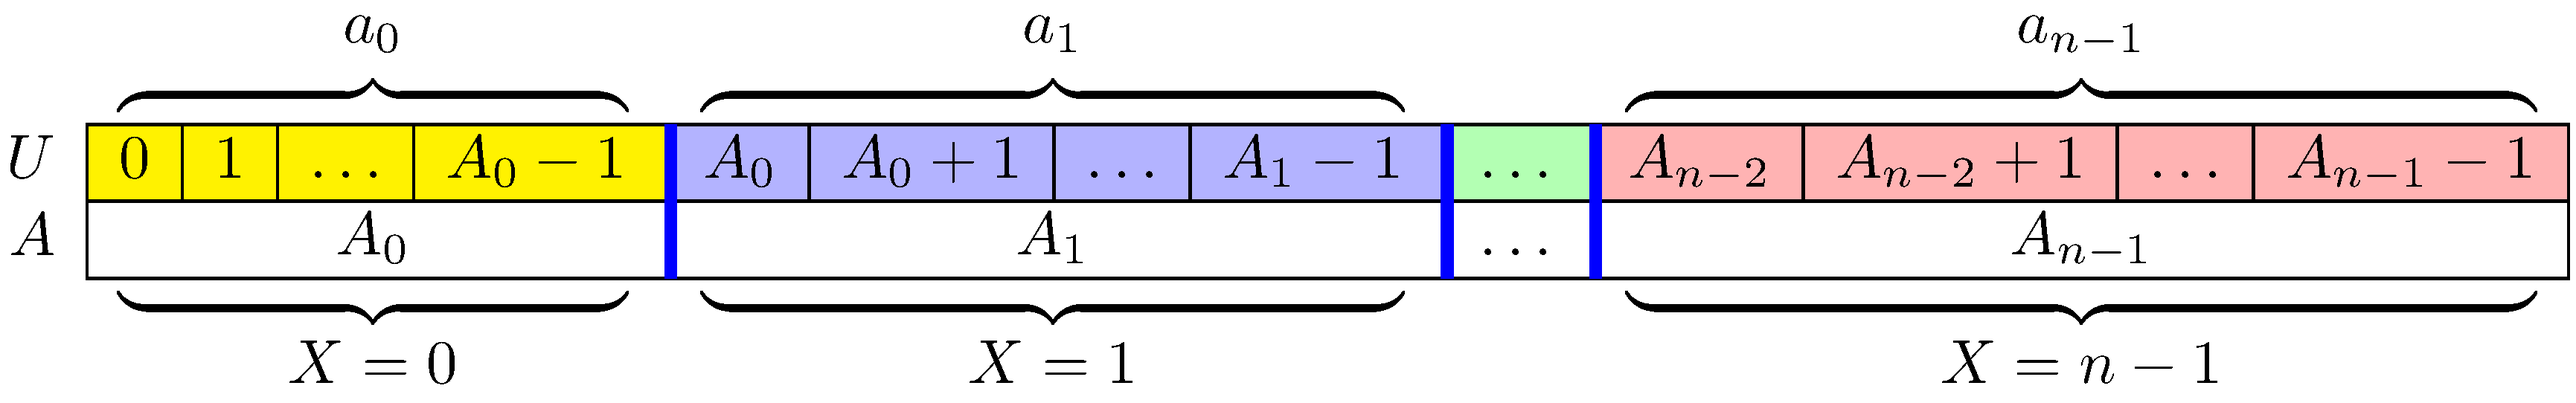
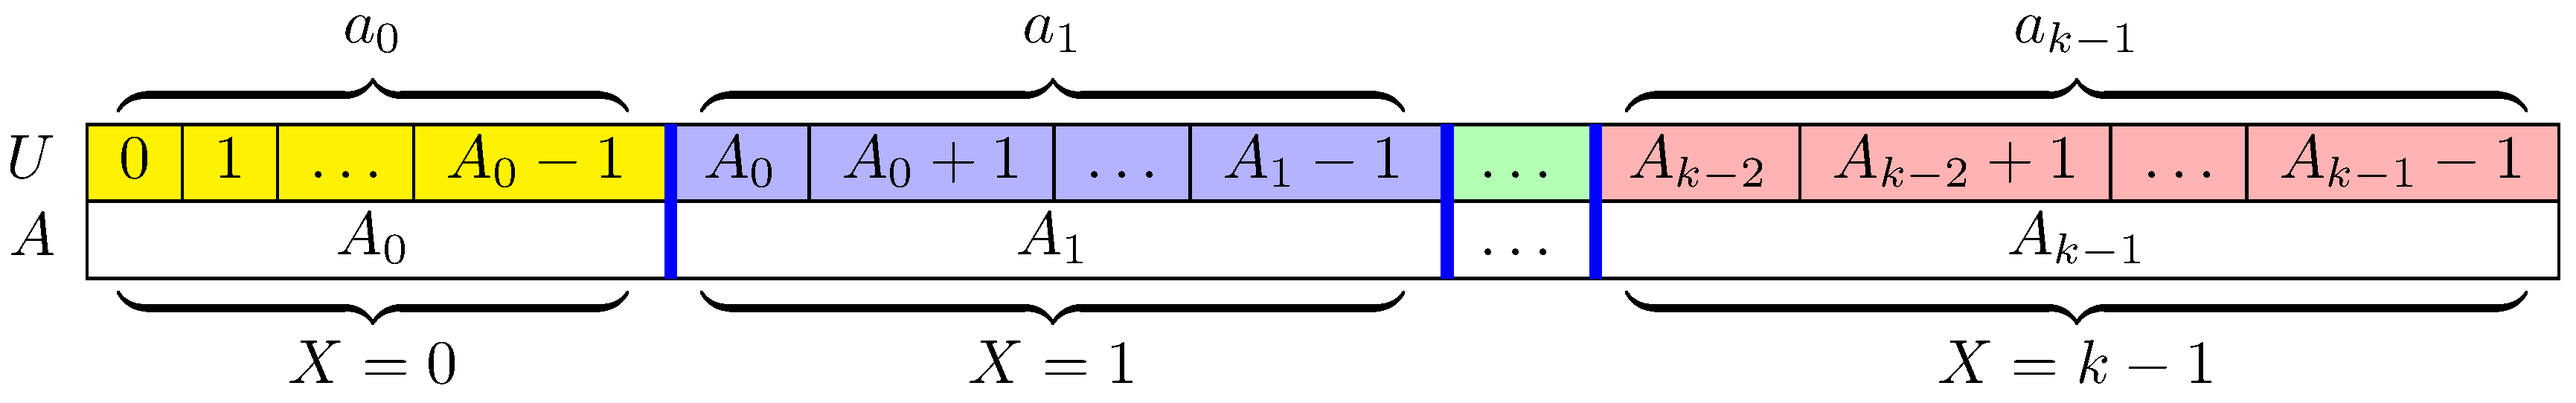
Update post

diff --git a/website/content/2025/online-random-sampling.md b/website/content/2025/online-random-sampling.md
@@ -24,7 +24,7 @@ committee = [
 Suppose you are given a discrete probability distribution \\(\mathbf{p} = (p_0, p_1, \ldots, p_{k-1})\\) and must generate a random integer \\(X \in \\{0,\ldots,k-1\\}\\) with probability \\(\mathbb{P}(X = i) = p_i\\).
 We can think of this problem as rolling a loaded \\(k\\)-sided die, where side \\(i\\) has probability \\(p_i\\), and we call this the random sampling problem.
 
-A prominent use case is in generating text using large language models, which provide a probability distribution over the next word in a text.
+A prominent use case of random sampling is in generating text using large language models, which provide a probability distribution over the next word in a text.
 A random sampler can be used in conjunction with a language model to generate text, word by word.
 More general applications of random sampling include stochastic simulation, statistical modeling, AI, machine learning, and cryptography.
 
@@ -39,12 +39,12 @@ Randomness is a scarce resource, so researchers study fundamental limits on the 
 The efficiency of sampling algorithms can be quantified in terms of the [Shannon entropy](https://en.wikipedia.org/wiki/Entropy_(information_theory)) of the inputs and outputs.
 For a probability distribution \\(\mathbf{p} = (p_0, p_1, \ldots, p_{k-1})\\), the Shannon entropy is defined as
 \\[H(\mathbf{p}) = \sum_{i=0}^{k-1} p_i \log\left(\frac{1}{p_i}\right),\\]
-which we can think of as the expected information content of a random variable drawn from the distribution \\(\mathbf{p}\\).[^2]
+which we can think of as the expected information content of a random variable drawn from the distribution \\(\mathbf{p}\\).[^log]
 Donald E. Knuth and Andrew C. Yao [proved in 1976](https://archive.org/details/algorithmscomple0000symp/page/356/mode/2up) derived the most efficient possible algorithm, which produces a sample from distribution \\(\mathbf{p}\\) using between \\(H(\mathbf{p})\\) and \\(H(\mathbf{p})+2\\) coin flips in expectation (with the exact value depending on the specific distribution \\(\mathbf{p}\\)).
 
 # Online random sampling {online-random-sampling}
 
-In real applications, a random number generation library is used to sample from a dynamic sequence of distributions \\(\\{\mathbf{p}\_1, \mathbf{p}\_2, \ldots\\}\\).[^1]
+In real applications, a random number generation library is used to sample from a dynamic sequence of distributions \\(\\{\mathbf{p}\_1, \mathbf{p}\_2, \ldots\\}\\).[^index]
 We call this the online random sampling problem, in contrast to the basic random sampling problem proposed earlier, where we generate a single sample from a given distribution.
 Basic random sampling algorithms can be expressed as computable functions \\((\mathbf{C}, \mathbf{p}) \mapsto X\\), where \\(\mathbf{C}\\) denotes the input sequence of coin flips, \\(\mathbf{p}\\) is the target distribution, and \\(X\\) is the output sample.
 If \\(\mathbf{C}\_0=\mathbf{C}\\) and \\(\mathbf{C}\_i\\) represents the unused coin flips after sampling from \\( \mathbf{p}\_{1}, \ldots, \mathbf{p}\_{i} \\), then we can apply the same basic random sampling function to the online problem setting by simply mapping each \\( (\mathbf{C}\_{i-1}, \mathbf{p}\_i) \mapsto X\_i \\).
@@ -55,7 +55,7 @@ The entropy-efficient algorithm of Knuth and Yao can be extended to sample in an
 However, this extension uses the entire program history, including the coin flips consumed and the distributions sampled, and therefore requires linearly growing memory and increasing computation time per sample as it progresses through the sequence, which makes it impractical for sampling long sequences.
 An alternative is to use the stateless version of Knuth and Yao's algorithm, using a fresh start for each new sample; the main drawback of this approach is that its entropy consumption is worse, bounded only by \\(H(\mathbf{p}_1)+\cdots+H(\mathbf{p}_n)+2n\\).
 
-## Entropy-space tradeoffs {entropy-space-tradeoffs}
+## Entropy/space tradeoffs {entropy-space-tradeoffs}
 
 Although both \\(H(\mathbf{p}_1)+\cdots+H(\mathbf{p}_n)+2\\) and \\(H(\mathbf{p}_1)+\cdots+H(\mathbf{p}_n)+2n\\) are asymptotically \\(\Theta(n)\\), the difference can be significant in practice when the source of randomness is expensive.
 Furthermore, in information-theoretic problems from source coding to channel capacity, the common goal is to drive the input-to-output entropy ratio to 1, not merely \\(O(1)\\).
@@ -74,11 +74,24 @@ For the special case of discrete uniform sampling (i.e., \\(\mathbf{p}\_0 = \cdo
 This efficient uniform sampling algorithm maintains a state describing a discrete uniform random variable, which is carried over between rounds, and never reset to zero.
 We show how discrete uniform state variables can also be used to recycle unused randomness from nonuniform samplers.
 
+## Randomness recycling {randomness-recycling}
+
+In this post, we will mainly focus on the inversion method for nonuniform sampling, which has the general structure of first converting coin flips to a discrete uniform random variable over a certain range, and then transforming the uniform into a sample from the target distribution, as shown in the following diagram.
+
+![stateless inversion diagram](standalone-diagram.png)
+
+Our proposed algorithms build on this same underlying structure, using deterministic transformations of uniform random variables, but we add randomness recycling rules to carry over unused randomness from round to round.
+We take as convention that our recycled random states are all discrete uniform random variables, represented as pairs of integers \\(Z,M\\) such that \\(Z \sim \operatorname{Uniform}(\\{0,1,\ldots,M-1\\})\\).
+These discrete uniform states are convenient to work with, because merging and splitting operations are as simple as integer multiplication and division.
+The following diagram illustrates the information flow in one round of our online sampling algorithm, where we have essentially added a recycling loop to the classical inversion method.
+
+![randomness recycling inversion diagram](standalone-diagram-rr.png)
+
 # Stateless sampling algorithms {stateless-sampling-algorithms}
 
 Our proposed online sampling algorithms build on classical algorithms for generating a single sample from a given distribution, which we now review.
 Knuth and Yao's algorithm is based on DDG trees (discrete distribution generating trees), which represent sampling algorithms as binary trees, where at each internal node, the sampler flips a fair coin to decide which child node to visit next, and each leaf node corresponds to an outcome in the target distribution.
-However, a general implementation of their method requires either exponential space to explicitly construct the DDG tree, or linear sampling time to implicitly traverse the tree.
+However, a general implementation of their method requires either exponential space to explicitly construct the DDG tree, or linear sampling runtime to implicitly traverse the tree.
 Keith Schwarz wrote [a popular blog post](https://www.keithschwarz.com/darts-dice-coins/) investigating several sampling algorithms, but without regard to entropy efficiency, and under the assumption that exact operations on real numbers can be performed in constant time.
 We have derived randomness recycling rules for many of these algorithms, but we will focus on the binary-search inversion method ("Roulette Wheel Selection" in Schwarz's blog post).
 
@@ -242,16 +255,17 @@ The solution grows as \\(M_{\min} = m_{\max} \cdot \tilde{O}(1 / \varepsilon)\\)
 The logarithmic dependence on \\(1/\varepsilon\\) makes it practical to run `Uniform_Recycling` with very small entropy loss.
 For the example where all inputs are 32-bit integers (i.e., \\(m_{\max} < 2^{32}\\)), and the state variables are 64-bit integers (i.e., \\(M_{\min} = 2^{63}\\)), the expected entropy loss is less than \\(2 \times 10^{-8}\\) bits per sample.
 For nonuniform sampling, `Inversion_Recycling` has the same entropy loss as `Uniform_Recycling`, and the underlying inversion method remains linear in the input size.
-The following table compares the efficiency of our method with the Knuth and Yao method, either statelessly (using a fresh start for each new sample), or online, as described in the [online random sampling](#online-random-sampling) section.
+The following table compares the entropy/space efficiency of our method with the Knuth and Yao method, either statelessly (using a fresh start for each new sample), fully online, or batched (online, but resetting the state every \\(\lceil 2/\varepsilon \rceil\\) iterations) as described in the [online random sampling](#online-random-sampling) section.
 
-| Method                    | Amortized Entropy Loss Bound | Expected Space and Time Complexity            |
-|:------------------------- | ---------------------------- | --------------------------------------------- |
-| Knuth and Yao (Stateless) | 2                            | linearithmic in input                         |
-| Knuth and Yao (Online)    | 0                            | unbounded                                     |
-| `Inversion_Recycling`     | \\( \varepsilon \\)          | linear in input and \\(\log(1/\varepsilon)\\) |
+| Method                    | Amortized Entropy Loss Bound | State Space Complexity       |
+|:------------------------- | ---------------------------- | ---------------------------- |
+| Knuth and Yao (Stateless) | 2                            | 0                            |
+| Knuth and Yao (Online)    | 0                            | unbounded                    |
+| Knuth and Yao (Batched)   | \\( \varepsilon \\)          | \\(O(1/\varepsilon)\\)       |
+| `Inversion_Recycling`     | \\( \varepsilon \\)          | \\(O(\log(1/\varepsilon))\\) |
 <!-- | Batched methods           | \\( \varepsilon \\)          | linear in input and \\(1/\varepsilon\\) | -->
 
-We have since proven that our algorithm is optimal up to a factor of \\(2\\) and the restriction to rational probabilities with bounded denominators.
+We have since proven that our algorithm is optimal up to a factor of \\(2\\), ignoring the restriction to rational probabilities with bounded denominators.
 Namely, the state space of any online sampling algorithm achieving an amortized entropy loss bound of \\(\varepsilon\\) for arbitrary finite discrete distributions requires at least \\(\log(1/\varepsilon)\\) bits.
 Our method requires \\(2\log(d/\varepsilon)\\) bits for storing its state \\((Z,M)\\), where \\(d\\) is a bound on the common denominators of the probabilities in the input distributions.
 
@@ -272,14 +286,18 @@ We also applied the same randomness recycling technique to accelerate the follow
 - [the Fast Loaded Dice Roller](https://doi.org/10.48550/arXiv.2003.03830), and
 - [the Amplified Loaded Dice Roller](https://doi.org/10.48550/arXiv.2504.04267).
 
+Different algorithms have different tradeoffs between space and runtime, but of particular note is the alias method, described in detail in [Schwarz's blog post](https://www.keithschwarz.com/darts-dice-coins/), which requires linear space and a constant number of operations per sample.
+By applying randomness recycling to the alias method, we can achieve the same linear space complexity and constant number of sampling operations; the tradeoff is that the integers used while sampling require an additional \\(O(\log(1/\varepsilon))\\) bits of precision to achieve an amortized entropy loss of \\(\varepsilon\\), and we need to propagate the state of size \\(O(\log(1/\varepsilon))\\) between rounds.
+
 # Application
 
-Our entropy-efficient exact online sampling algorithms are useful in any application using high-quality randomness.
+Our entropy-efficient exact online sampling algorithms are useful in any application requiring high-quality randomness.
 As noted by [RANDOM.ORG](https://www.random.org/randomness), random numbers are useful in many applications beyond computer science, including games, lotteries, experimental design, and even the arts.
 Some applications benefit from the reproducibility (determinism) and efficiency afforded by using pseudorandom number generators, but often it is ideal to use a true source of randomness, derived from unpredictable physical processes.
-[RANDOM.ORG](https://www.random.org) uses an array of radios to detect atmospheric noise, each generating roughly [12,000 bits of randomness per second](https://www.random.org/faq/#Q4.1), and provides a public API for generating random numbers from this source of randomness.
-It would be easy to exhaust this source of randomness using inefficient sampling algorithms, so they use `Uniform_Recycling` and efficiently provide discrete uniform random numbers.
-Using our method, random number service providers or library developers can achieve a similar entropy efficiency for samples requested from more general, nonuniform distributions.
+[RANDOM.ORG](https://www.random.org) uses an array of radios to detect atmospheric noise, each generating roughly [12,000 bits of randomness per second](https://www.random.org/faq/#Q4.1), and provides a public API for generating true uniform random numbers from this source.
+Furthermore, each generated random number is independent of all previous random numbers given to the user or any other user.
+Hence, it would be easy to exhaust this source of randomness using inefficient sampling algorithms, so they [use](https://www.random.org/faq/#Q2.10) the same technique as in `Uniform_Recycling` to efficiently provide discrete uniform random numbers.
+Using our generalized randomness recycling methods, it is now possible for random number service providers or library developers to achieve a similar entropy efficiency for samples requested from more general, nonuniform distributions.
 
 <!-- ## True randomness
 
@@ -296,6 +314,6 @@ For further details, please see the [full paper](https://doi.org/10.48550/arXiv.
 
 This article is based on joint work with [Feras Saad](https://www.cs.cmu.edu/~fsaad/), presented at the [2026 Symposium on Discrete Algorithms](https://doi.org/10.1137/1.9781611978971.89).
 
-[^1]: In contrast to the probability weights, the indices on the sequence of distributions are not represented in the computer, only implicitly used for the mathematical analysis, hence the one-based indexing.
+[^log]: We use \\(\log\\) to denote the logarithm using base 2, so that the entropy is measured in bits.
 
-[^2]: We use \\(\log\\) to denote the logarithm using base 2, so that the entropy is measured in bits.
+[^index]: In contrast to the probability weights, the indices on the sequence of distributions are not represented in the computer, only implicitly used for the mathematical analysis, hence the one-based indexing.
